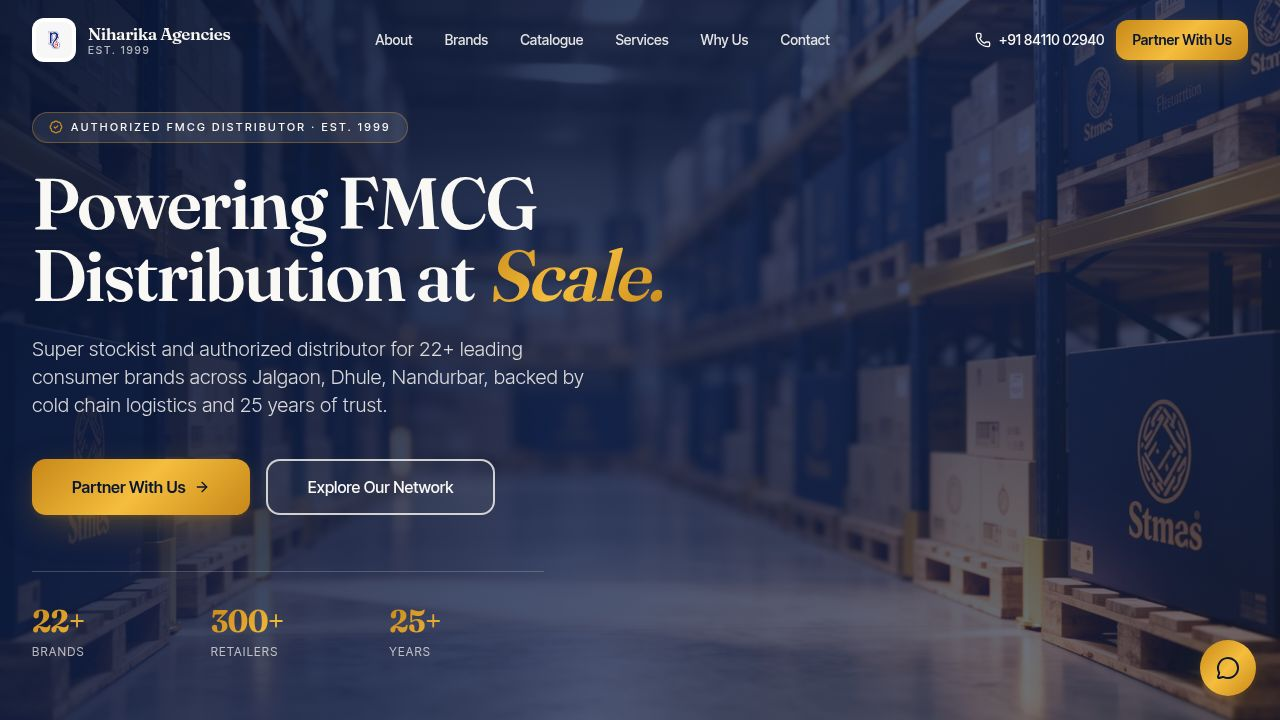
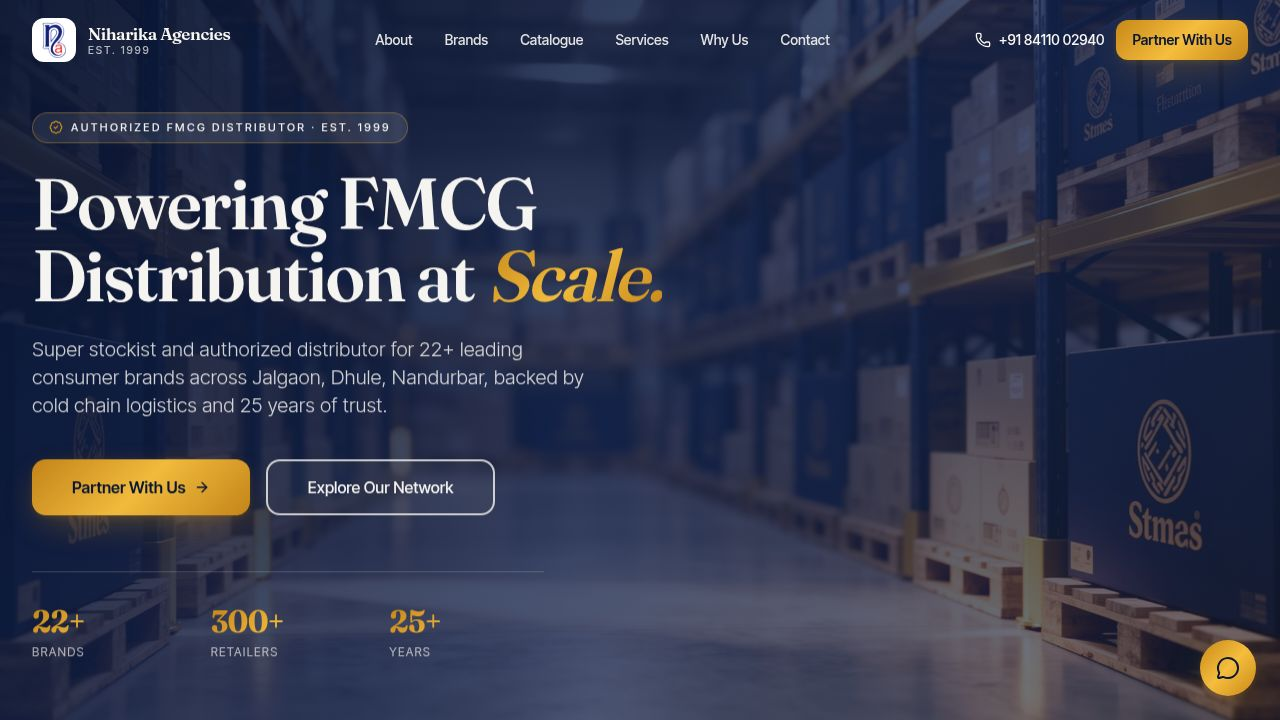
Update website to reflect new branding and add founder information
Changes include: updating the favicon to the new logo, renaming "Product Catalogue" to "Product Categories", linking the "Catalogue" button to the "brochures" section, hiding the "Made with Replit" watermark, and adding a founder profile section to the About page.

Replit-Commit-Author: Agent
Replit-Commit-Session-Id: be613290-0d9b-45f7-bf53-14148299a22c
Replit-Commit-Checkpoint-Type: full_checkpoint
Replit-Commit-Event-Id: 60e08e41-3311-44b1-ac51-5565312328df
Replit-Commit-Screenshot-Url: https://storage.googleapis.com/screenshot-production-us-central1/c6d33ddd-77c7-4842-b8d7-788cb2bd024c/be613290-0d9b-45f7-bf53-14148299a22c/A81qLjp
Replit-Helium-Checkpoint-Created: true

diff --git a/artifacts/niharika-agencies/src/components/site/About.tsx b/artifacts/niharika-agencies/src/components/site/About.tsx
@@ -1,5 +1,6 @@
-import { Award, Snowflake, Truck, MapPin } from "lucide-react";
+import { Award, Snowflake, Truck, MapPin, Quote } from "lucide-react";
 import { SITE } from "@/data/site";
+import founderPhoto from "@/assets/founder-nihar-jain.jpeg";
 
 const points = [
   { icon: Award, title: "Supply Chain Partner Since 1999", desc: "Over two decades powering FMCG distribution with discipline and trust." },
@@ -58,6 +59,35 @@ export function About() {
               <p className="mt-2 text-sm text-muted-foreground leading-relaxed">{p.desc}</p>
             </div>
           ))}
+        </div>
+      </div>
+
+      {/* Founder Profile */}
+      <div className="container mt-24">
+        <div className="rounded-3xl bg-primary text-primary-foreground overflow-hidden">
+          <div className="grid lg:grid-cols-5 items-stretch">
+            <div className="lg:col-span-2 relative min-h-[340px] lg:min-h-0">
+              <img
+                src={founderPhoto}
+                alt="Nihar Jain — Founder, Niharika Agencies"
+                className="absolute inset-0 h-full w-full object-cover object-top"
+              />
+              <div className="absolute inset-0 bg-gradient-to-t from-primary/60 via-transparent to-transparent lg:bg-gradient-to-r lg:from-transparent lg:to-primary/60" />
+            </div>
+            <div className="lg:col-span-3 px-8 py-10 sm:px-12 sm:py-14 flex flex-col justify-center">
+              <Quote className="h-8 w-8 text-accent opacity-70 mb-4" />
+              <p className="font-display text-xl sm:text-2xl font-medium leading-relaxed text-primary-foreground/90 italic">
+                "We didn't just build a distribution business — we built relationships. Every brand we carry, every retailer we serve, every delivery we make is a commitment to quality and consistency."
+              </p>
+              <div className="mt-8 flex items-center gap-4 border-t border-primary-foreground/15 pt-6">
+                <div>
+                  <div className="font-display text-xl font-semibold tracking-tight">Nihar Jain</div>
+                  <div className="text-sm text-accent mt-0.5 uppercase tracking-[0.18em]">Founder & Director</div>
+                  <div className="text-xs text-primary-foreground/60 mt-1">Niharika Agencies · Est. {SITE.since}</div>
+                </div>
+              </div>
+            </div>
+          </div>
         </div>
       </div>
     </section>

diff --git a/artifacts/niharika-agencies/src/components/site/Catalogue.tsx b/artifacts/niharika-agencies/src/components/site/Catalogue.tsx
@@ -45,7 +45,7 @@ export function Catalogue() {
         <div className="flex flex-col lg:flex-row lg:items-end lg:justify-between gap-8">
           <div className="max-w-2xl">
             <span className="text-xs font-semibold uppercase tracking-[0.25em] text-accent">
-              Product Catalogue
+              Product Categories
             </span>
             <h2 className="mt-4 font-display text-4xl sm:text-5xl font-semibold text-primary leading-tight">
               A growing range of <span className="text-gold-gradient italic">premium FMCG products.</span>

diff --git a/artifacts/niharika-agencies/index.html b/artifacts/niharika-agencies/index.html
@@ -15,6 +15,7 @@
 
     <meta name="twitter:card" content="summary_large_image" />
 
+    <link rel="icon" type="image/png" href="/favicon.png" />
     <link rel="preconnect" href="https://fonts.googleapis.com" />
     <link rel="preconnect" href="https://fonts.gstatic.com" crossorigin />
     <link href="https://fonts.googleapis.com/css2?family=Fraunces:opsz,wght@9..144,400;9..144,500;9..144,600;9..144,700;9..144,800&family=Inter+Tight:wght@300;400;500;600;700&display=swap" rel="stylesheet" />

diff --git a/artifacts/niharika-agencies/src/components/site/Navbar.tsx b/artifacts/niharika-agencies/src/components/site/Navbar.tsx
@@ -8,7 +8,7 @@ import logo from "@/assets/logo-niharika-color.png";
 const links = [
   { href: "#about", label: "About" },
   { href: "#brands", label: "Brands" },
-  { href: "#catalogue", label: "Catalogue" },
+  { href: "#brochures", label: "Catalogue" },
   { href: "#services", label: "Services" },
   { href: "#why", label: "Why Us" },
   { href: "#contact", label: "Contact" },

diff --git a/artifacts/niharika-agencies/src/components/site/Footer.tsx b/artifacts/niharika-agencies/src/components/site/Footer.tsx
@@ -25,7 +25,7 @@ export function Footer() {
             {[
               ["About", "#about"],
               ["Brand Partners", "#brands"],
-              ["Catalogue", "#catalogue"],
+              ["Catalogue", "#brochures"],
               ["Services", "#services"],
               ["Contact", "#contact"],
             ].map(([l, h]) => (

diff --git a/artifacts/niharika-agencies/src/index.css b/artifacts/niharika-agencies/src/index.css
@@ -2,6 +2,13 @@
 @tailwind components;
 @tailwind utilities;
 
+/* Hide Replit badge */
+[data-replit-badge],
+.replit-ui-theme-root ~ div[style*="position: fixed"][style*="bottom"],
+iframe[src*="replit.com/badge"] {
+  display: none !important;
+}
+
 @layer base {
   :root {
     --background: 36 38% 97%;
